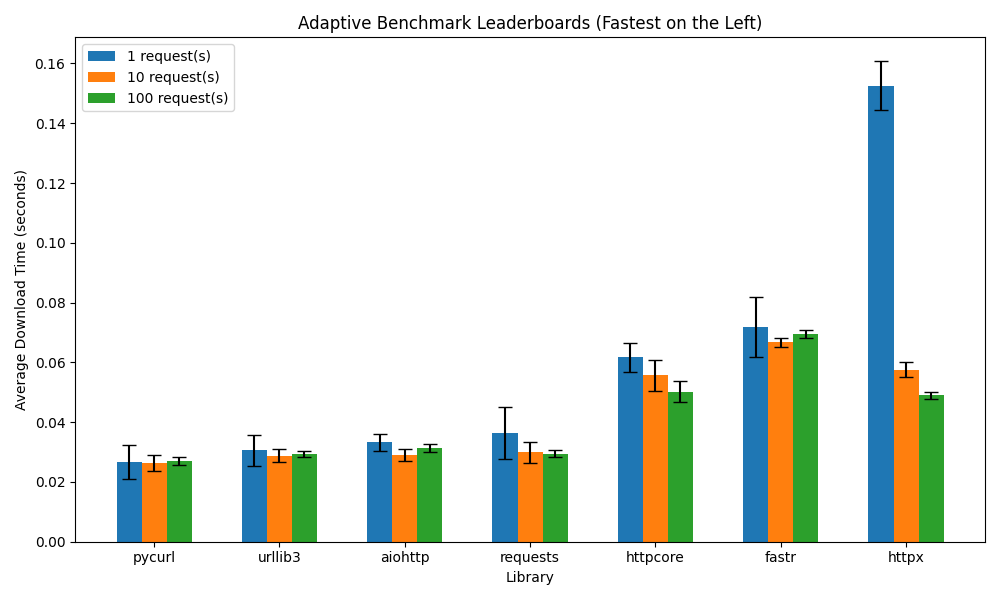
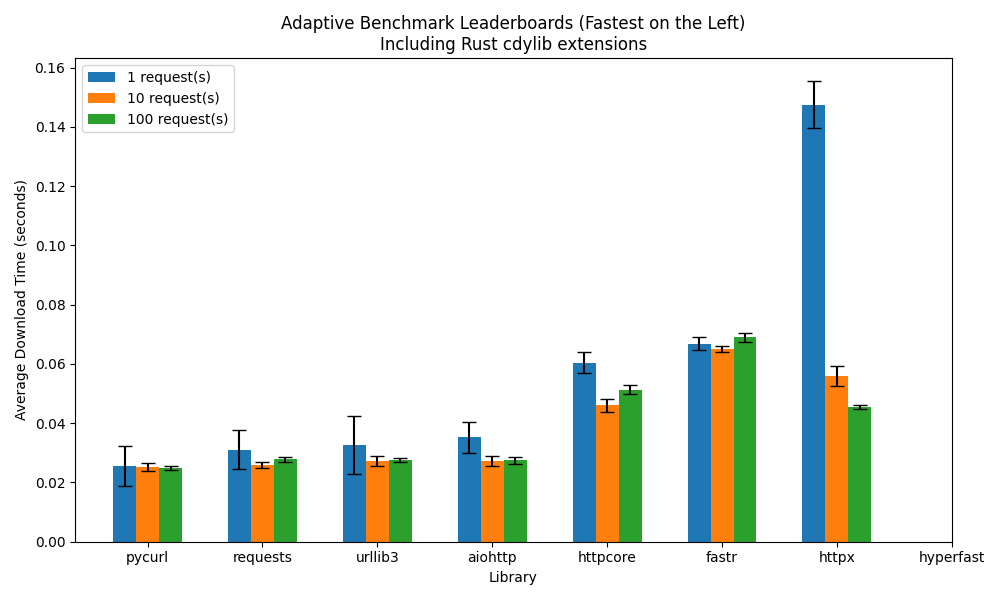
fix

diff --git a/no_reuse_with_rs/no_reuse.py b/no_reuse_with_rs/no_reuse.py
@@ -28,7 +28,6 @@ URL = "https://docs.pola.rs/py-polars/html/objects.inv"
 # Benchmarking logic
 # =============================================================================
 
-
 def run_benchmark(library, code):
     """
     Write the provided code to a temporary file, run it via subprocess,
@@ -54,7 +53,6 @@ def run_benchmark(library, code):
                 duration = float("inf")
             break
     return duration
-
 
 def adaptive_benchmark(library, code, tolerance, confidence, min_repeats, max_repeats):
     """
@@ -88,7 +86,6 @@ def adaptive_benchmark(library, code, tolerance, confidence, min_repeats, max_re
             half_width = (ci_upp - ci_low) / 2.0
 
     return measurements, ds.mean, half_width
-
 
 def build_library_code(num_runs):
     """
@@ -233,8 +230,25 @@ if __name__ == "__main__":
     avg_duration = sum(durations) / len(durations)
     print(f"fastr average download time: {{avg_duration:.4f}} seconds")
 """,
-    }
+        # New Rust-based extension called "hyperfast":
+        "hyperfast": f"""
+import time
+import hyperfast
 
+url = "{URL}"
+
+def download():
+    start_time = time.time()
+    # Single GET using the Rust extension, no client reuse.
+    hyperfast.get(url)
+    return time.time() - start_time
+
+if __name__ == "__main__":
+    durations = [download() for _ in range({num_runs})]
+    avg_duration = sum(durations) / len(durations)
+    print(f"hyperfast average download time: {{avg_duration:.4f}} seconds")
+"""
+    }
 
 # =============================================================================
 # Main script
@@ -359,7 +373,7 @@ if __name__ == "__main__":
 
     ax.set_xlabel("Library")
     ax.set_ylabel("Average Download Time (seconds)")
-    ax.set_title("Adaptive Benchmark Leaderboards (Fastest on the Left)")
+    ax.set_title("Adaptive Benchmark Leaderboards (Fastest on the Left)\nIncluding Rust cdylib extensions")
     ax.set_xticks(x + bar_width * (num_conds - 1) / 2)
     ax.set_xticklabels(sorted_libraries)
     ax.legend()

diff --git a/hyperfast/src/lib.rs b/hyperfast/src/lib.rs
@@ -1,0 +1,29 @@
+use pyo3::prelude::*;
+use pyo3::types::PyBytes;
+use pyo3::wrap_pyfunction;
+use hyper::Client;
+use hyper::body::to_bytes;
+use hyper::Uri;
+
+/// A simple blocking GET written in Rust via Hyper.
+/// It returns the response body as Python bytes.
+#[pyfunction]
+fn get(py: Python, url: &str) -> PyResult<Py<PyBytes>> {
+    let rt = tokio::runtime::Runtime::new().unwrap();
+    let data = rt.block_on(async {
+        let client = Client::new();
+        let uri = url.parse::<Uri>().map_err(...)?;
+        let resp = client.get(uri).await.map_err(...)?;
+        to_bytes(resp.into_body()).await.map_err(...)
+    })?;
+    Ok(PyBytes::new(py, &data).into())
+}
+
+
+/// This is the module initialiser. The name here (`hyperfast`) must match the
+/// library name you declared in Cargo.toml (lib.name).
+#[pymodule]
+fn hyperfast(_py: Python, m: &PyModule) -> PyResult<()> {
+    m.add_function(wrap_pyfunction!(get, m)?)?;
+    Ok(())
+}
